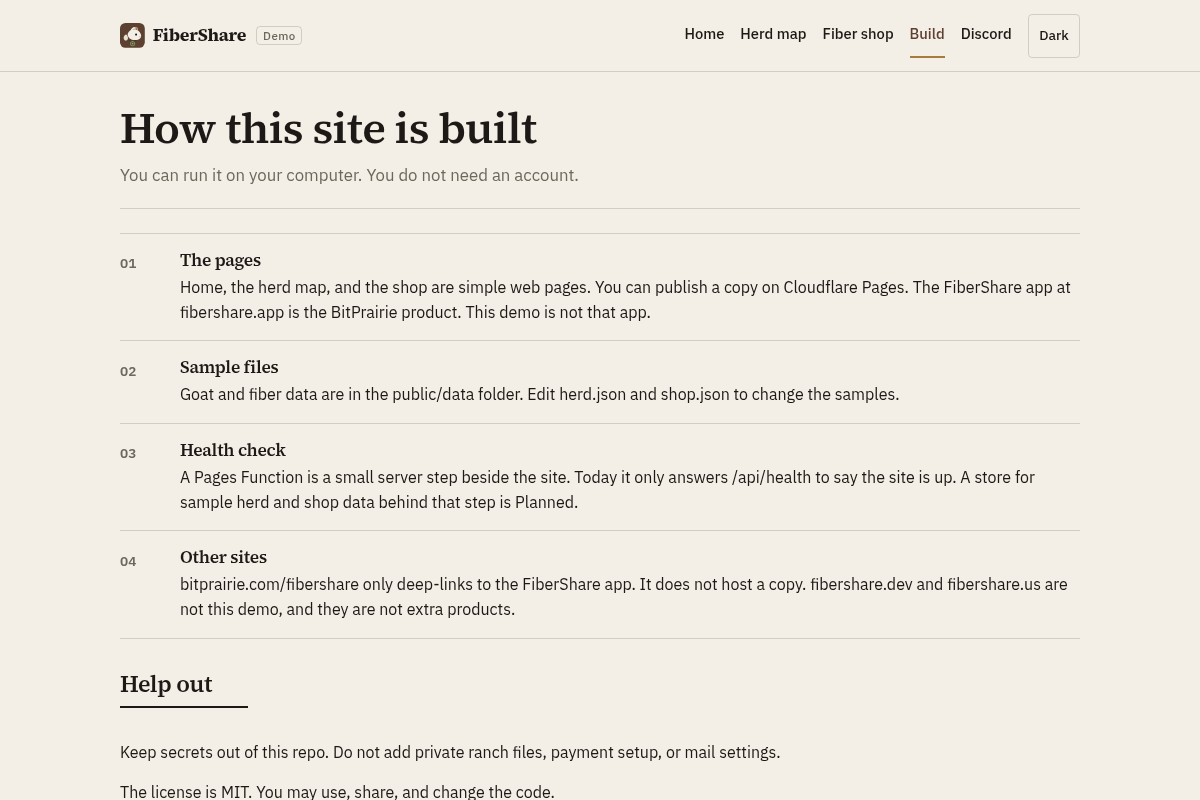
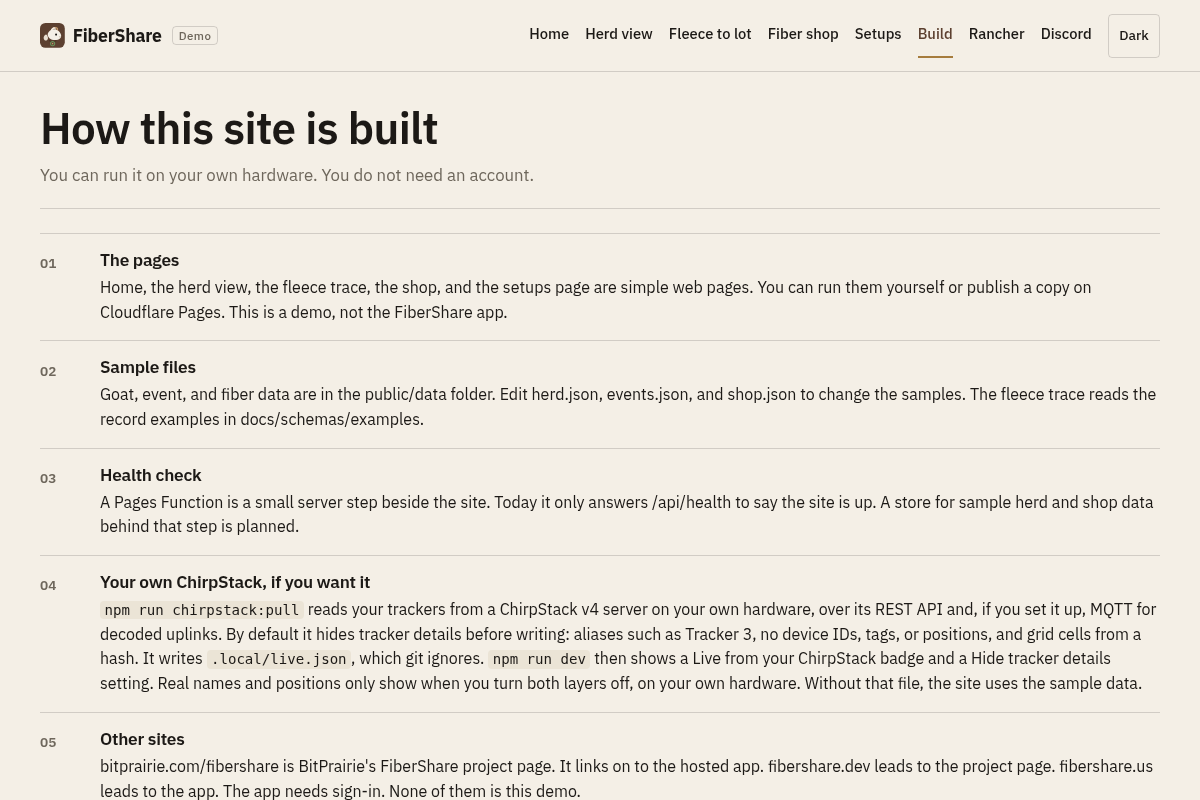
Docs: feature the decision loops, fix location and status claims (#30)
* docs: feature the decision loops, fix location and status claims

- README: lead with what each loop does, named by its job, with status
- README and DIRECTION: describe location handling accurately for the demo and the app
- DIRECTION: drop 'without lethal force', mark community early warning and the upload page as Planned, move done work out of next steps
- ROADMAP: add a Planned decision loops section
- Setups page: same location and sharing fixes
- Retake docs/screenshots from the current demo
- package.json: description and keywords

* docs: mark alert loops in use, drop device names, add start year

- Find an animal in trouble: alerts and confirm or dismiss are in use in the app; learning from answers stays Planned
- Catch a dying or silent tracker: low-battery and quiet-tracker alerts are in use in the app
- docs/chirpstack.md: say LoRaWAN collar trackers instead of a model name
- README and DIRECTION: running since about 2020

diff --git a/src/setups.js b/src/setups.js
@@ -75,8 +75,8 @@ export function renderSetups() {
     '<section class="section">' +
     '<h2 class="section-rule">In every setup</h2>' +
     '<ol class="feature-list">' +
-    '<li><span class="feature-num" aria-hidden="true">01</span><div><h3>Location is stripped or blurred</h3><p>No one can tell where a photo or an animal was. This demo goes further and uses a virtual grid in place of a map.</p></div></li>' +
-    '<li><span class="feature-num" aria-hidden="true">02</span><div><h3>Sharing is opt in</h3><p>Each rancher\'s event history is theirs. Sharing with agencies or researchers is aggregated or delayed, with no exact locations.</p></div></li>' +
+    '<li><span class="feature-num" aria-hidden="true">01</span><div><h3>No locations in public</h3><p>Public pages never show where an animal is. In this demo the public sees a virtual grid. Only a signed-in rancher sees their own trackers on a map.</p></div></li>' +
+    '<li><span class="feature-num" aria-hidden="true">02</span><div><h3>Sharing is opt in</h3><p>Each rancher\'s event history is theirs. Planned: anything shared with agencies or researchers will be aggregated or delayed, with no exact locations.</p></div></li>' +
     '<li><span class="feature-num" aria-hidden="true">03</span><div><h3>Community first</h3><p>The community network, self-hosted or run as a co-op, is the main part of the project. It is free for non-commercial and research use.</p></div></li>' +
     "</ol>" +
     '<p class="fine-print">This is a demo, not the FiberShare app. Support for a ranch pays for animals and pasture. Support is not ownership or an investment return.</p>' +

diff --git a/README.md b/README.md
@@ -1,80 +1,106 @@
 # FiberShare (open source)
 
-FiberShare is a ranch program from BitPrairie LLC. It started with goats and fiber, and with keeping ranches going. Now it's growing into a network of local ranchers across the western US, with collar trackers, paddock cameras, and predator and wildfire detection on the ranch.
-
-The aim is to keep animals safe, give local communities and local government programs early warning, and keep local supply chains going.
+FiberShare is a ranch program from BitPrairie LLC, running since about 2020. It started with goats and fiber and is growing into a network of local ranchers across the western US, with collar trackers, paddock cameras, and predator and wildfire detection on the ranch.
 
 Support for a ranch pays for animals and pasture. It is not ownership or an investment return.
 
-This repository is a demo. It is for people who want to read the code, run a sample copy, or help improve it. It is not the FiberShare app at [fibershare.app](https://fibershare.app).
+This repository is a demo for people who want to read the code, run a sample copy, or help improve it. It is not the FiberShare app at [fibershare.app](https://fibershare.app).
 
-## Three ways to take part
+![The demo home page](docs/screenshots/home.png)
 
-1. **Run your own local system.** Use the open code and docs to set up a system on your own ranch or land. It is free and open source.
-2. **Join the community network.** Share with other ranchers through a self-hosted or co-op setup. This is the main part of the project. It is non-commercial, and it is fine for research use.
-3. **Join the commercial network.** Use BitPrairie's hosted services and ready-to-go gear. This part is small. It mainly covers the cost of hardware and hosting.
+## What the loops do
 
-## Three setups
+FiberShare's intelligence and realtime systems read tracker, sensor and camera data around the clock and turn it into alerts and suggestions. Each loop does one job. The rancher decides every time: nothing moves animals, opens gates or contacts anyone without the rancher's OK. Each answer the rancher gives is stored, so the next suggestion fits that ranch better.
 
-These match the setups on [bitprairie.com](https://www.bitprairie.com).
+```mermaid
+flowchart LR
+  A[Read: collars, sensors, cameras, public data] --> B[Check against the ranch's normal]
+  B --> C[Suggest: an alert or an action, with the readings behind it]
+  C --> D{Rancher decides}
+  D -->|confirm, change or dismiss| E[Store the answer]
+  E --> B
+```
+
+| Job | What it reads | What it suggests | How it improves | Status |
+| --- | --- | --- | --- | --- |
+| **Find an animal in trouble** | Collar movement and SOS button presses | An alert naming the animal, with the readings that set it off | Confirmed and dismissed alerts set when the next one fires, so there are fewer false alarms | In use in the FiberShare app: alerts, and the rancher's confirm or dismiss. Built and tested: the movement and distress feed to Predator Watch. Planned: learning from the rancher's answers |
+| **Catch a dying or silent tracker** | Battery level, last check-in, signal at the gateway | Charge or swap a tracker, check a collar that went quiet, check a gateway that is missing readings | Learns each device's normal check-in pattern | In use in the FiberShare app: low-battery and quiet-tracker alerts. Also in this demo, with sample data. Planned: learning each device's pattern |
+| **Plan the next paddock move** | Time each group spends in each paddock, forage notes, weather | When to move a group and where to | Compares each suggestion with what the rancher did and how the paddock recovered | Planned |
+| **Plan a move ahead of fire or smoke** | Ranch temperature, humidity and air readings, plus public fire, smoke and fire-weather layers | A move plan: which animals first, to where, through which gate | The rancher marks what worked after each event | Sensor feed to Wildfire Watch: being built. Move plans: Planned |
+| **Warn neighbors about predator activity** | Confirmed predator events from ranches that opt in | A heads-up to nearby ranchers when confirmed events cluster | More confirmed events make the pattern clearer | Planned. Shared events will be delayed and placed on a coarse grid, with no ranch names or real locations |
+| **Link fiber quality to breeding and grazing** | Fleece weight, micron and color, with each animal's paddock and health history | Which animals and grazing seasons go with the best fiber lots | Each shearing adds a season of results | Records: in use. Suggestions: Planned |
+
+The demo's "day of events" shows what herd, device and wildfire alerts look like, using simulated data.
+
+## Two networks, three setups
+
+| Network | What it is |
+| --- | --- |
+| Community | Non-commercial. Ranchers share through a self-hosted or co-op setup. This is the main part of the project, and research use is welcome. |
+| Commercial | BitPrairie's hosted services and ready-made gear. It is kept small and mainly covers the cost of hardware and hosting. |
+
+You can also run this code on your own ranch and share with no one.
 
 | Setup | What it means |
 | --- | --- |
 | Your own hardware | You build or buy the gear and run it yourself. |
 | Hosted by BitPrairie | BitPrairie runs the hosting for you. |
-| A mix of both | Your gear on the ranch, with BitPrairie hosting the parts you choose. |
+| A mix | Your gear on the ranch, with BitPrairie hosting the parts you choose. |
 
-The gear is meant to hold up outside: 3D-printed ASA cases, solar panels, and LoRa radios.
+Field gear: 3D-printed ASA cases, small solar panels and LoRa radios.
 
-## What is open, and what BitPrairie offers
+## What is open
 
-| Community (free, open source) | Commercial (BitPrairie) |
+| Open source (free) | BitPrairie (commercial) |
 | --- | --- |
 | This demo | The hosted FiberShare app |
-| Open schemas (draft) | BitPrairie's own trained models |
+| Record schemas (draft) | BitPrairie's own trained models and datasets |
 | Self-hosting docs | Hosted alerting and relay |
-| Non-commercial and research use | Ready-to-go hardware kits |
-| | Support |
+| | Hardware kits and support |
 
-Only BitPrairie's own trained models stay private. The open public models it builds on keep their own licenses.
+Open models that BitPrairie builds on keep their own licenses.
 
 ## The wider project
 
-- **FiberShare app** at [fibershare.app](https://fibershare.app): ranch sponsorship, a live collar map, and a fiber shop. Basic records for animals, shearing, fleece, and fiber lots are in use, and the tools are being upgraded.
-- **Predator Watch** at [bitprairie.com/predator-watch](https://bitprairie.com/predator-watch/): early warning about predators near livestock, so ranchers can act without lethal force. Phase 3, training models on BitPrairie's own regional data, is in progress.
-- **Wildfire Watch** at [bitprairie.com/wildfire-watch](https://bitprairie.com/wildfire-watch/): early wildfire detection.
-- **moqFeeder**: a related project for paddock video over Media over QUIC.
+- **FiberShare app** at [fibershare.app](https://fibershare.app): ranch support, a live collar map and a fiber shop. It needs sign-in.
+- **Predator Watch** at [bitprairie.com/predator-watch](https://bitprairie.com/predator-watch/): earlier warning about predators near livestock, so the rancher hears sooner and decides what to do.
+- **Wildfire Watch** at [bitprairie.com/wildfire-watch](https://bitprairie.com/wildfire-watch/): early wildfire and smoke warning.
+- **moqFeeder**: paddock video over Media over QUIC.
 
-Predator Watch and Wildfire Watch share the same sensors and run on the same LoRa radios and solar power on the ranch.
+All of these share the same sensors, LoRa radios and solar power on the ranch.
 
-The feed of livestock movement and distress events from LoRa collars to Predator Watch is built and tested. The feed of ranch sensor readings to Wildfire Watch is still being built.
-
-Planned:
-
-- A wildfire relay to local and government alerting systems.
-
-An upload page at upload.bitprairie.com is coming soon. People on the [mailing list](https://bitprairie.com/predator-watch/#subscribe) will get upload access.
+| Feed | Status |
+| --- | --- |
+| Collar movement and distress events to Predator Watch | Built and tested |
+| Ranch sensor readings to Wildfire Watch | Being built |
+| Wildfire relay to local alerting systems, with the rancher's consent | Planned |
+| Photo upload page for people on the [mailing list](https://bitprairie.com/predator-watch/#subscribe) | Planned |
 
 ## Your data
 
-- Location data is stripped or blurred. No one can tell where a photo or an animal was.
-- Training data stays on BitPrairie's own hardware. It is used for training and testing only. No one else sees it.
-- Each rancher's event history belongs to that rancher. It is shared only if they opt in.
-- Any sharing with agencies or researchers is aggregated or delayed, and has no exact locations.
+- Public pages never show where an animal is.
+- In this demo, tracker positions are hidden on the server unless the rancher signs in. Only the signed-in rancher sees their own trackers on a real map.
+- In the FiberShare app, positions are turned into a private virtual grid when they arrive, and the GPS coordinates are not stored.
+- Training data stays on BitPrairie's hardware and is used only to train and test.
+- Each rancher's event history belongs to that rancher and is shared only if they opt in.
+- Planned: anything shared with agencies or researchers will be aggregated or delayed, with no exact locations.
 
 ## What this demo does
 
 - **Herd view.** Eight sample goats on a virtual paddock grid, 6 by 4 cells. The grid is a drawing, not GPS. Pick a goat to see its breed, fiber, tracker battery, last check-in, and check-ins per hour.
-- **A day of events.** A made-up day of tracker check-ins, a low battery, a quiet tracker, a wildfire smoke alert, and a predator alert. Every event is marked simulated. Press Play the day to step through it.
-- **Fleece to fiber lot.** Follow the sample goat Bramble from her shearing to her fleece to the `mohair-bramble` lot, using the draft records in `docs/schemas/examples/`. Switch between rancher, buyer, and public to see what each record shares.
-- **Three setups.** Your own hardware, hosted by BitPrairie, or a mix, side by side.
-- **Your own trackers, if you want.** Read your trackers from your own ChirpStack v4 server. See [docs/chirpstack.md](docs/chirpstack.md).
-- **Rancher sign-in and a real map.** The public always gets hidden tracker data. A signed-in rancher gets real names and positions on a map with public map layers: imagery, topo, and street basemaps, wildfire perimeters and incidents, weather warnings, fire weather, smoke, air quality, federal land ownership, and any ArcGIS or GeoJSON layer you add. See [docs/rancher-access.md](docs/rancher-access.md).
-- Lists sample fiber. You cannot check out.
-- Explains ranch support.
-- Runs locally with Node 20, and works offline from the bundled sample data.
+- **A day of events.** A made-up day of tracker check-ins, a low battery, a quiet tracker, a wildfire smoke alert and a predator alert, each marked simulated. Press Play the day to step through it.
+- **Fleece to fiber lot.** Follow the sample goat Bramble from her shearing to her fleece to the `mohair-bramble` lot, using the draft records in `docs/schemas/examples/`. Switch between rancher, buyer and public to see what each record shares.
+- **Three setups**, side by side.
+- **Your own trackers.** Read your trackers from your own ChirpStack v4 server. See [docs/chirpstack.md](docs/chirpstack.md).
+- **Rancher sign-in and a real map.** The public always gets hidden tracker data. A signed-in rancher gets real names and positions on a map with public map layers: imagery, topo and street basemaps, wildfire perimeters and incidents, weather warnings, fire weather, smoke, air quality, federal land ownership, and any ArcGIS or GeoJSON layer you add. See [docs/rancher-access.md](docs/rancher-access.md).
+- **Sample fiber list** with no checkout, and a page that explains ranch support.
+- Runs on Node 20 and works offline from the bundled sample data.
 
-This repo has no secrets: no API keys, no mail settings, and no real collar data. A test checks every committed file for DevEUI-like hex strings and coordinates.
+This repo has no secrets: no API keys, no mail settings and no real collar data. A test checks every committed file for DevEUI-like hex strings and coordinates.
+
+| Herd view | Sample fiber list |
+| --- | --- |
+| ![Sample herd on the virtual paddock grid](docs/screenshots/herd-map.png) | ![Sample fiber list](docs/screenshots/fiber-list.png) |
 
 ## Quick start
 
@@ -94,25 +120,23 @@ Then open http://localhost:5173.
 | `npm run dev` | Serves the local site with Vite at http://localhost:5173 |
 | `npm run build` | Builds the site into `dist/` |
 | `npm run preview` | Serves the built site |
-| `npm run pages:dev` | Serves `dist/` with Wrangler 4 (needs Node 22 or newer), including `/api/health` |
+| `npm run pages:dev` | Serves `dist/` with Wrangler 4 (Node 22 or newer), including `/api/health` |
 | `npm run lint` | Checks the JavaScript files for syntax errors |
-| `npm test` | Runs the tests for the sample data, the record schemas, the herd view, the ChirpStack pull, rancher sign-in, the map layers, and `/api/health` |
-| `npm run chirpstack:pull` | Reads your trackers from your own ChirpStack server into `.local/live.json`. See [docs/chirpstack.md](docs/chirpstack.md) |
+| `npm test` | Tests the sample data, record schemas, herd view, ChirpStack pull, rancher sign-in, map layers and `/api/health` |
+| `npm run chirpstack:pull` | Reads your trackers from your ChirpStack server into `.local/live.json`. See [docs/chirpstack.md](docs/chirpstack.md) |
 | `npm run rancher:passphrase` | Sets the rancher sign-in passphrase for local mode. See [docs/rancher-access.md](docs/rancher-access.md) |
 | `npm run serve:local` | Serves `dist/` and the API on your own hardware at http://127.0.0.1:4174 |
 | `npm run layers:check` | Checks that every map layer still answers |
 
-`npm run dev` serves the pages and the sample JSON. The `/api/health` function is included when you use `npm run pages:dev` after `npm run build`.
-
-Sample goats, the sample day of events, and fiber are in `public/data/herd.json`, `public/data/events.json`, and `public/data/shop.json`.
+Sample goats, events and fiber are in `public/data/herd.json`, `public/data/events.json` and `public/data/shop.json`.
 
 ## Live data from your own ChirpStack
 
 If you run ChirpStack v4 for LoRa trackers, `npm run chirpstack:pull` reads your devices on your own hardware and writes `.local/live.json`, which git ignores. `npm run dev` then shows a **Live from your ChirpStack** badge, how long ago the data was pulled, and a **Hide tracker details** setting. Use `--watch=120` to keep pulling.
 
-The page gets the data from `/api/live`, never from the file. Everyone gets the hidden view: aliases such as Tracker 3, no device IDs, tags, or positions, and grid cells from a hash. Only a signed-in rancher gets real values, and only if the pull ran with `FIBERSHARE_HIDE_TRACKERS=0`. Sign-in is a passphrase on your own hardware, or Cloudflare Access on Pages, where `--push` sends the data to a KV namespace. The live file is never part of `npm run build`.
+The page gets the data from `/api/live`, never from the file. Everyone gets the hidden view: aliases such as Tracker 3, no device IDs, tags or positions, and grid cells from a hash. Only a signed-in rancher gets real values, and only if the pull ran with `FIBERSHARE_HIDE_TRACKERS=0`. Sign-in is a passphrase on your own hardware, or Cloudflare Access on Pages, where `--push` sends the data to a KV namespace. The live file is never part of `npm run build`.
 
-Setup: [docs/chirpstack.md](docs/chirpstack.md) for the pull, including a podman command for the compose network, and [docs/rancher-access.md](docs/rancher-access.md) for sign-in, the map layers, and their terms.
+Setup: [docs/chirpstack.md](docs/chirpstack.md) for the pull, including a podman command for the compose network, and [docs/rancher-access.md](docs/rancher-access.md) for sign-in, the map layers and their terms.
 
 ## How it is built
 
@@ -128,37 +152,29 @@ Browser
               └── /api/push    (your pull sends data here with a token)
 ```
 
-The project name `fibershare-dev` is a label for a copy of this demo. It is not the FiberShare app.
+`fibershare-dev` is the project name for a copy of this demo, not the FiberShare app.
 
-On your own hardware, `npm run dev`, `npm run preview`, and `npm run serve:local` answer the same `/api/live` and `/api/session` from `.local/`. The shared rule for who gets what is in `server/`. The rancher map uses [Leaflet](https://leafletjs.com/) and [Esri Leaflet](https://developers.arcgis.com/esri-leaflet/), loaded only for a signed-in rancher. Their licenses are in `public/licenses/map-libraries.txt`.
+On your own hardware, `npm run dev`, `npm run preview` and `npm run serve:local` answer the same `/api/live` and `/api/session` from `.local/`. The rule for who gets what is in `server/`. The rancher map uses [Leaflet](https://leafletjs.com/) and [Esri Leaflet](https://developers.arcgis.com/esri-leaflet/), loaded only for a signed-in rancher. Their licenses are in `public/licenses/map-libraries.txt`.
 
 You can run the built files in `dist/` on your own server. You do not need an account to try the demo.
-
-## Screenshots
-
-Screenshots will be retaken after the UI refresh.
 
 ## Where things live
 
 None of these sites is this repository:
 
-- [bitprairie.com/fibershare](https://www.bitprairie.com/fibershare) is BitPrairie's FiberShare project page. It explains the program and links on to the hosted FiberShare app.
-- [fibershare.dev](https://fibershare.dev) leads to the bitprairie.com FiberShare page.
+- [bitprairie.com/fibershare](https://bitprairie.com/fibershare/) is the FiberShare project page.
+- [fibershare.dev](https://fibershare.dev) leads to that page.
 - [fibershare.us](https://fibershare.us) leads to the FiberShare app.
 - The FiberShare app at [fibershare.app](https://fibershare.app) needs sign-in.
 
-Do not open issues here about the FiberShare app, orders, or private herd data.
+Please do not open issues here about the FiberShare app, orders or private herd data.
 
-More on this split is in [docs/DIRECTION.md](docs/DIRECTION.md). What is coming next is in [ROADMAP.md](ROADMAP.md).
+More on this split is in [docs/DIRECTION.md](docs/DIRECTION.md). What comes next is in [ROADMAP.md](ROADMAP.md).
 
 ## Help out
 
-Ranchers, hardware makers, and developers are all welcome. See [CONTRIBUTING.md](CONTRIBUTING.md) and the [Code of Conduct](CODE_OF_CONDUCT.md).
-
-Chat is on [Discord](https://discord.gg/m3x8R3sF6N). You need a Discord account. You need a GitHub account to send a change.
+Ranchers, hardware makers and developers are welcome. See [CONTRIBUTING.md](CONTRIBUTING.md) and the [Code of Conduct](CODE_OF_CONDUCT.md). Chat is on [Discord](https://discord.gg/m3x8R3sF6N).
 
 ## License
 
-[MIT](LICENSE) © 2026 BitPrairie LLC · legal@bitprairie.com
-
-You may use, share, and change the code.
+[MIT](LICENSE). Copyright 2026 BitPrairie LLC.

diff --git a/docs/DIRECTION.md b/docs/DIRECTION.md
@@ -6,15 +6,29 @@ How this open-source repository fits into FiberShare and BitPrairie's wider work
 
 FiberShare is for ranchers, local communities, and local government programs in the western US, and for anyone who wants to run the same kind of system on their own land.
 
-The project is a network of local ranchers with gear on the ranch: collar trackers, paddock cameras and live video, and predator and wildfire detection. The network gives early warning to local communities and local government programs, and it helps keep local supply chains going.
+FiberShare has run since about 2020. The project is a network of local ranchers with gear on the ranch: collar trackers, paddock cameras and live video, and predator and wildfire detection.
 
-## Three ways to take part
+Planned: early warning from the network to local communities and local government programs, sent only with each rancher's consent.
 
-1. **Your own local system.** Free and open source. You run it.
-2. **The community network.** Non-commercial. Self-hosted or run as a co-op. This comes first. It is the main focus of this repository.
-3. **The commercial network.** BitPrairie's hosted services and gear. It is kept small. It mainly exists to cover the cost of hardware and hosting.
+## Two networks
 
-Each can use one of three setups: your own hardware, hosted by BitPrairie, or a mix of both.
+- **The community network** is non-commercial, self-hosted or run as a co-op. It comes first and is the main focus of this repository.
+- **The commercial network** is BitPrairie's hosted services and gear. It is kept small and mainly covers the cost of hardware and hosting.
+
+You can also run the code on your own ranch and share with no one. Any of these can use one of three setups: your own hardware, hosted by BitPrairie, or a mix. The [README](../README.md) has the tables.
+
+## What the loops do
+
+The automation is what sets FiberShare apart. Intelligence and realtime systems read tracker, sensor and camera data and turn it into alerts and suggestions. The rancher decides every time, and each answer is stored so the next suggestion fits that ranch better. Each loop does one job:
+
+- **Find an animal in trouble.** In use in the FiberShare app: alerts, and the rancher's confirm or dismiss. Built: the movement and distress feed to Predator Watch. Planned: learning from the rancher's answers.
+- **Catch a dying or silent tracker.** In use in the FiberShare app: low-battery and quiet-tracker alerts. Also in this demo with sample data. Planned: learning each device's normal pattern.
+- **Plan the next paddock move.** Planned.
+- **Plan a move ahead of fire or smoke.** Being built: the sensor feed to Wildfire Watch. Planned: move plans.
+- **Warn neighbors about predator activity.** Planned, for ranches that opt in, with delayed events on a coarse grid.
+- **Link fiber quality to breeding and grazing.** Records are in use. Planned: suggestions.
+
+The README has the full table: what each loop reads, what it suggests and how it improves.
 
 ## Community and commercial
 
@@ -39,7 +53,7 @@ Only BitPrairie's own trained models and datasets stay private, and they are not
 
 ## One FiberShare app
 
-BitPrairie LLC has one FiberShare app, at [fibershare.app](https://fibershare.app). It covers ranch sponsorship, a live collar map, and a fiber shop. Basic records for animals, shearing, fleece, and fiber lots are in use there, and the tools are being upgraded.
+BitPrairie LLC has one FiberShare app, at [fibershare.app](https://fibershare.app). It covers ranch support, a live collar map, and a fiber shop. Records for animals, shearing, fleece, and fiber lots are in use there.
 
 [bitprairie.com/fibershare](https://www.bitprairie.com/fibershare) is BitPrairie's FiberShare project page. It explains the program and links on to the hosted app. It is not a copy of the app, and it is not this repository.
 
@@ -51,20 +65,22 @@ The Wrangler file in this repo uses the Pages project name `fibershare-dev`. Tha
 
 These are described here only so the pieces make sense together. Details live on their own pages.
 
-- [Predator Watch](https://bitprairie.com/predator-watch/) gives early warning about predators near livestock, so ranchers can respond without lethal force. Phase 3, training models on BitPrairie's own regional data, is in progress. The feed of livestock movement and distress events from LoRa collars to Predator Watch is built and tested. [Subscribe for updates](https://bitprairie.com/predator-watch/#subscribe).
-- [Wildfire Watch](https://bitprairie.com/wildfire-watch/) looks for early signs of wildfire. The feed of ranch sensor readings from FiberShare to Wildfire Watch is still being built. A relay to local and government alerting systems is planned.
+- [Predator Watch](https://bitprairie.com/predator-watch/) gives earlier warning about predators near livestock, so the rancher hears sooner and decides what to do. Phase 3, training models on BitPrairie's own regional data, is in progress. The feed of livestock movement and distress events from LoRa collars to Predator Watch is built and tested. [Subscribe for updates](https://bitprairie.com/predator-watch/#subscribe).
+- [Wildfire Watch](https://bitprairie.com/wildfire-watch/) looks for early signs of wildfire. The feed of ranch sensor readings from FiberShare to Wildfire Watch is still being built. Planned: a relay to local and government alerting systems, with the rancher's consent.
 - moqFeeder is a related project for paddock video over Media over QUIC.
 
 Predator Watch and Wildfire Watch share the same sensors and run on the same LoRa radios and solar power on the ranch. The detection side uses intelligence systems trained by BitPrairie.
 
-An upload page at upload.bitprairie.com is coming soon. People on the mailing list will get upload access.
+Planned: a photo upload page for people on the mailing list.
 
 ## Your data
 
-- Location data is stripped or blurred, so no one can tell where a photo or an animal was.
+- Public pages never show where an animal is.
+- In this demo, tracker positions are hidden on the server unless the rancher signs in. Only the signed-in rancher sees their own trackers on a real map.
+- In the FiberShare app, positions are turned into a private virtual grid when they arrive, and the GPS coordinates are not stored.
 - Training data stays on BitPrairie's own hardware, for training and testing only. No one else sees it.
 - Each rancher's event history is theirs. It is shared only if they opt in.
-- Any sharing with agencies or researchers is aggregated or delayed, and has no exact locations.
+- Planned: anything shared with agencies or researchers will be aggregated or delayed, with no exact locations.
 
 ## What this repository is
 
@@ -73,12 +89,12 @@ An open-source demo for people who want to read the code, run a sample copy, or 
 It includes:
 
 - A home page that explains ranch support
-- A herd map of sample goats on a pasture drawing
+- A herd view of sample goats on a virtual paddock grid
 - A sample fiber list with no checkout
 - A page about how the demo is built
 - A Pages Function at `/api/health` that reports the demo is up
 
-The sample goats are not a real ranch herd. The pins are positions on a drawing.
+The sample goats are not a real ranch herd. The grid is a drawing, not GPS.
 
 This demo only explains ranch support. Support pays for animals and pasture. It is not ownership or an investment return.
 
@@ -116,7 +132,8 @@ Do not add keys, tokens, internal hostnames, or internal URLs. Do not add coordi
 ## Next steps
 
 1. Keep the public pages and docs describing this repository as the demo, and the FiberShare app as the one product.
-2. Tests for the sample JSON files and for `/api/health`, plus a lint step, exist (`npm test` and `npm run lint`), so a change can be tested without the private app. CI runs them and the build on every pull request.
-3. Planned: add a short guide for publishing your own copy of this demo. If a store for demo data is added later, it stays limited to sample or contributor-owned fictional herds.
-4. Planned: add demo pages that show the larger idea with fake data only. See [ROADMAP.md](../ROADMAP.md).
-5. The record format draft is posted in `docs/schemas/` for comment. Planned: post the other open interfaces above as drafts and ask for comment.
+2. Planned: add a short guide for publishing your own copy of this demo. If a store for demo data is added later, it stays limited to sample or contributor-owned fictional herds.
+3. Planned: add demo pages that show the larger idea with fake data only. See [ROADMAP.md](../ROADMAP.md).
+4. Planned: post the other open interfaces above as drafts and ask for comment. The record format draft is already in `docs/schemas/`.
+
+Tests, a lint step and CI on every pull request are already in place (`npm test`, `npm run lint`), so a change can be checked without the private app.

diff --git a/docs/chirpstack.md b/docs/chirpstack.md
@@ -107,11 +107,11 @@ A full file (`FIBERSHARE_HIDE_TRACKERS=0`) is written with owner-only permission
 
 ## Checked, and not checked yet
 
-The REST and MQTT sources have run against a real chirpstack-docker stack with SenseCAP T1000 trackers: 4 MQTT uplinks in 20 minutes, each with a position. Other ChirpStack versions or marshaler settings may differ.
+The REST and MQTT sources have run against a real chirpstack-docker stack with LoRaWAN collar trackers: 4 MQTT uplinks in 20 minutes, each with a position. Other ChirpStack versions or marshaler settings may differ.
 
 These parts were built from the ChirpStack v4 API definitions and tested with made-up replies:
 
 - The `start` and `end` query format for link metrics (RFC 3339 timestamps), and whether `rxPackets` counts each uplink once when several radio receivers hear it.
 - Listing tenants with a key that is not an admin key. If it fails, set `CHIRPSTACK_TENANT_ID`.
-- The names of the decoded T1000 fields. The script looks for plain keys (`latitude`, `temperature`, ...) and for lists of `{ type, measurementValue }` readings, which is how the SenseCAP T1000 codec reports them. SOS, light, and motion names may differ by codec version.
-- What a battery level of 0 means for a T1000. ChirpStack uses -1 or a missing value for no reading, and those show as not reported.
+- The names of the decoded tracker fields. The script looks for plain keys (`latitude`, `temperature`, ...) and for lists of `{ type, measurementValue }` readings, which is how the codec on the tested trackers reports them. SOS, light, and motion names may differ by codec version.
+- What a battery level of 0 means for a given tracker. ChirpStack uses -1 or a missing value for no reading, and those show as not reported.

diff --git a/ROADMAP.md b/ROADMAP.md
@@ -19,6 +19,18 @@ This list covers the open demo and its open docs. It is not a plan for the Fiber
 - CI that runs lint, tests, and the build on every pull request
 - A draft of the FiberShare record format (animal, shearing, fleece, fiber lot) as JSON Schemas in `docs/schemas/`, with fake examples only. It is posted for comment and is not final.
 
+## Planned: decision loops
+
+Each loop does one job and suggests; the rancher decides. Answers are stored so the next suggestion fits the ranch better. See the table in the [README](README.md#what-the-loops-do).
+
+- Find an animal in trouble: learn from the rancher's confirm and dismiss answers. Alerts and the confirm or dismiss step are in use in the FiberShare app, and the movement and distress feed to Predator Watch is built
+- Catch a dying or silent tracker: learn each device's normal check-in pattern. Low-battery and quiet-tracker alerts are in use in the FiberShare app and in this demo
+- Plan the next paddock move: suggest when and where to move a group
+- Plan a move ahead of fire or smoke: a move plan built from ranch sensors and public fire and smoke layers
+- Warn neighbors about predator activity: a heads-up when confirmed events cluster, for ranches that opt in
+- Link fiber quality to breeding and grazing: match fleece results to animals and grazing seasons
+- In this demo: show each loop with fake data, including the rancher's confirm, change and dismiss step
+
 ## Planned: checks and docs
 
 - A guide for publishing your own copy of this demo
